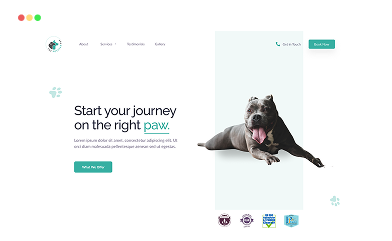
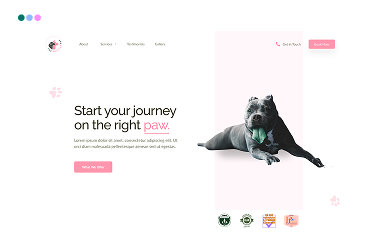
Added header and colour scheme

diff --git a/style.scss b/style.scss
@@ -1,12 +1,31 @@
+@use "./modules/colours" as colours;
+
+@import url("https://fonts.googleapis.com/css2?family=Work+Sans:ital,wght@0,100..900;1,100..900&display=swap");
+
 $mobile-width: 480px;
+
+body {
+  overflow: auto;
+  margin: 0;
+  font-family: "Work Sans", sans-serif;
+  background-color: colours.$powderBlush;
+}
+
+h2,
+h3,
+p {
+  color: colours.$crimsonViolet;
+}
 
 header {
   @media only screen and (max-width: $mobile-width) {
     display: none;
   }
   @media only screen and (min-width: ($mobile-width+1)) {
-    background-color: grey;
-    width: 100vw;
+    display: flex;
+    align-items: center;
+    justify-content: space-between;
+    background-color: colours.$darkCoral;
     height: 45px;
     position: fixed;
     top: 0;
@@ -15,15 +34,41 @@ header {
   }
 }
 
+.header_nav {
+  align-items: center;
+  display: flex;
+  flex-direction: row-reverse;
+  justify-items: flex-end;
+  margin-top: 0px;
+  margin-bottom: 0px;
+  height: 100%;
+
+  &--button {
+    align-self: center;
+    margin: 0px 10px 0px 10px;
+  }
+}
+.header_title {
+  font-size: 30px;
+  font-weight: bold;
+  margin: 0px 0px 0px 20px;
+  text-align: center;
+}
+
+button.header_nav--button {
+  height: 30px;
+}
+
 footer {
-  background-color: grey;
+  background-color: colours.$darkCoral;
   width: 100%;
   height: 155px;
 }
 
 main {
   @media only screen and (max-width: $mobile-width) {
-    margin: 20px 20px 20px 20px;
+    text-align: center;
+    padding: 20px 0px 20px 0px;
   }
   @media only screen and (min-width: ($mobile-width+1)) {
     margin: 55px 0px 0px 0px;
@@ -33,15 +78,10 @@ main {
   flex-direction: column;
 }
 
-body {
-  overflow: auto;
-  margin: 0;
-  font-family: Arial, Helvetica, sans-serif;
-}
-
 section {
   margin-top: 40px;
   margin-bottom: 10px;
+  background-color: colours.$almondCream;
 }
 
 @mixin asymmetrical-grid {
@@ -71,6 +111,8 @@ section {
 .about-me-area {
   align-items: center;
   flex-direction: column;
+  padding-top: 20px;
+  padding-bottom: 20px;
 
   @media only screen and (max-width: $mobile-width) {
     display: flex;
@@ -173,4 +215,9 @@ section {
       width: 100%;
     }
   }
+}
+.my-projects-area,
+.technical-skills-area {
+  margin-left: 20px;
+  margin-right: 20px;
 }

diff --git a/style.css b/style.css
@@ -1,3 +1,17 @@
+@import url("https://fonts.googleapis.com/css2?family=Work+Sans:ital,wght@0,100..900;1,100..900&display=swap");
+body {
+  overflow: auto;
+  margin: 0;
+  font-family: "Work Sans", sans-serif;
+  background-color: #eda7a2;
+}
+
+h2,
+h3,
+p {
+  color: #602437;
+}
+
 @media only screen and (max-width: 480px) {
   header {
     display: none;
@@ -5,8 +19,10 @@
 }
 @media only screen and (min-width: 481px) {
   header {
-    background-color: grey;
-    width: 100vw;
+    display: flex;
+    align-items: center;
+    justify-content: space-between;
+    background-color: #e58087;
     height: 45px;
     position: fixed;
     top: 0;
@@ -15,15 +31,41 @@
   }
 }
 
+.header_nav {
+  align-items: center;
+  display: flex;
+  flex-direction: row-reverse;
+  justify-items: flex-end;
+  margin-top: 0px;
+  margin-bottom: 0px;
+  height: 100%;
+}
+.header_nav--button {
+  align-self: center;
+  margin: 0px 10px 0px 10px;
+}
+
+.header_title {
+  font-size: 30px;
+  font-weight: bold;
+  margin: 0px 0px 0px 20px;
+  text-align: center;
+}
+
+button.header_nav--button {
+  height: 30px;
+}
+
 footer {
-  background-color: grey;
+  background-color: #e58087;
   width: 100%;
   height: 155px;
 }
 
 @media only screen and (max-width: 480px) {
   main {
-    margin: 20px 20px 20px 20px;
+    text-align: center;
+    padding: 20px 0px 20px 0px;
   }
 }
 @media only screen and (min-width: 481px) {
@@ -36,21 +78,18 @@ main {
   flex-direction: column;
 }
 
-body {
-  overflow: auto;
-  margin: 0;
-  font-family: Arial, Helvetica, sans-serif;
-}
-
 section {
   margin-top: 40px;
   margin-bottom: 10px;
+  background-color: #fae1ca;
 }
 
 .greeting-area,
 .about-me-area {
   align-items: center;
   flex-direction: column;
+  padding-top: 20px;
+  padding-bottom: 20px;
 }
 @media only screen and (max-width: 480px) {
   .greeting-area,
@@ -174,4 +213,10 @@ section {
 .my-projects-area__project--image {
   display: flex;
   width: 100%;
+}
+
+.my-projects-area,
+.technical-skills-area {
+  margin-left: 20px;
+  margin-right: 20px;
 }

diff --git a/index.html b/index.html
@@ -7,7 +7,15 @@
     <link rel="stylesheet" href="style.css" />
   </head>
   <body>
-    <header></header>
+    <header>
+      <h3 class="header_title">Kayley Whitfield</h3>
+      <div class="header_nav">
+        <button class="header_nav--button">Get in Touch</button>
+        <p class="header_nav--button">Projects</p>
+        <p class="header_nav--button">About</p>
+        <p class="header_nav--button">Home</p>
+      </div>
+    </header>
     <main>
       <section class="greeting-area">
         <div class="greeting-area__text">

diff --git a/modules/colours.scss b/modules/colours.scss
@@ -1,0 +1,18 @@
+//Pink and red palette
+$mauveShadow: #8b2126;
+$crimsonViolet: #602437;
+$vintageBerry: #8a2846;
+$rosewood: #b9375e;
+$blushRose: #e05780;
+$petalRouge: #ff7aa2;
+$pinkMist: #ff9ebb;
+$pastelPink: #ffc2d4;
+$petalFrost: #ffe0e9;
+
+//Pink and yellow palette
+$darkCoral: #e58087;
+$lightCoral: #e99394;
+$powderBlush: #eda7a2;
+$almondSilk: #f6cdbc;
+$almondCream: #fae1ca;
+$cornsilk: #fef4d7;
